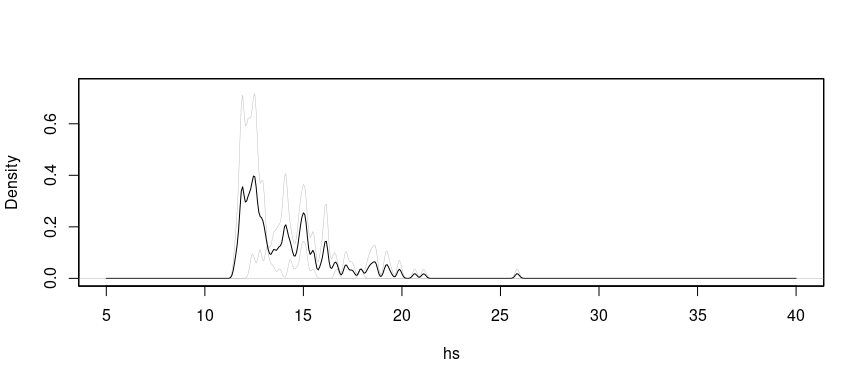
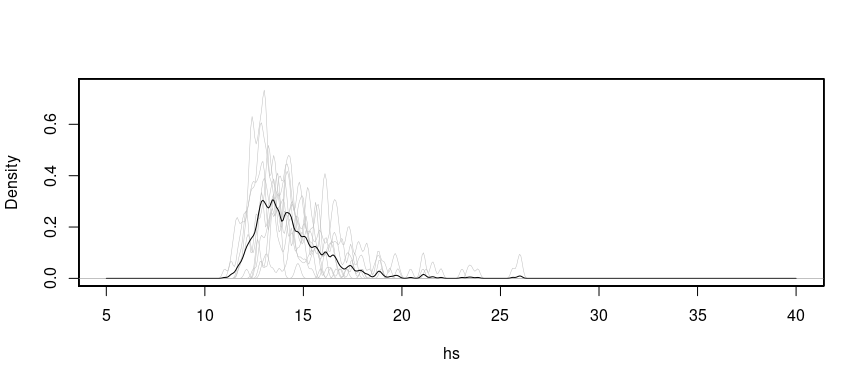
updated README

Changed region(s): [[0.25, 0.25, 0.625, 0.75], [0.0312, 0.4375, 0.0938, 0.5]]

diff --git a/README.md b/README.md
@@ -77,7 +77,7 @@ plot(density(ds$hs, bw=.1))
 
 ``` r
 # number of bootstrap/resampling steps
-nbstrp <- 2  # e.g. nbstrp = 10 for testing
+nbstrp <- 10  # e.g. nbstrp = 10 for testing
 
 system.time(res_bstrp <- run_bootstrap_storms_pots(df = df_pick$storms,
                                                    group_col = "storm_idx",
@@ -86,7 +86,7 @@ system.time(res_bstrp <- run_bootstrap_storms_pots(df = df_pick$storms,
 ```
 
     ##    user  system elapsed 
-    ##   0.744   0.000   0.744
+    ##   3.304   0.000   3.304
 
 ``` r
 bstrp_storms_lst <- res_bstrp$boot_samples
@@ -160,7 +160,7 @@ models_margs <- fit_margs_bstrp(bstrp_pots_lst,
 ```
 
     ## [1] "Considered variables:" "hs"                   
-    ## [1] "number of bootstraps is:" "2"                       
+    ## [1] "number of bootstraps is:" "10"                      
     ## [1] "bootstrap nr:" "1"            
     ## [1] "fit threshold model"
     ## [1] "fit threshold model for" "hs"                     
@@ -172,6 +172,78 @@ models_margs <- fit_margs_bstrp(bstrp_pots_lst,
     ## [1] "fit occ model"
     ## [1] "fit occurrence model for" "hs"                      
     ## [1] "bootstrap nr:" "2"            
+    ## [1] "fit threshold model"
+    ## [1] "fit threshold model for" "hs"                     
+    ## [1] "subset to pots above threshold"
+    ## [1] "subset dataset for" "hs"                
+    ## [1] "fit GPD model"
+    ## [1] "fit gpd model for" "hs"               
+    ## [1] "fit occ model"
+    ## [1] "fit occurrence model for" "hs"                      
+    ## [1] "bootstrap nr:" "3"            
+    ## [1] "fit threshold model"
+    ## [1] "fit threshold model for" "hs"                     
+    ## [1] "subset to pots above threshold"
+    ## [1] "subset dataset for" "hs"                
+    ## [1] "fit GPD model"
+    ## [1] "fit gpd model for" "hs"               
+    ## [1] "fit occ model"
+    ## [1] "fit occurrence model for" "hs"                      
+    ## [1] "bootstrap nr:" "4"            
+    ## [1] "fit threshold model"
+    ## [1] "fit threshold model for" "hs"                     
+    ## [1] "subset to pots above threshold"
+    ## [1] "subset dataset for" "hs"                
+    ## [1] "fit GPD model"
+    ## [1] "fit gpd model for" "hs"               
+    ## [1] "fit occ model"
+    ## [1] "fit occurrence model for" "hs"                      
+    ## [1] "bootstrap nr:" "5"            
+    ## [1] "fit threshold model"
+    ## [1] "fit threshold model for" "hs"                     
+    ## [1] "subset to pots above threshold"
+    ## [1] "subset dataset for" "hs"                
+    ## [1] "fit GPD model"
+    ## [1] "fit gpd model for" "hs"               
+    ## [1] "fit occ model"
+    ## [1] "fit occurrence model for" "hs"                      
+    ## [1] "bootstrap nr:" "6"            
+    ## [1] "fit threshold model"
+    ## [1] "fit threshold model for" "hs"                     
+    ## [1] "subset to pots above threshold"
+    ## [1] "subset dataset for" "hs"                
+    ## [1] "fit GPD model"
+    ## [1] "fit gpd model for" "hs"               
+    ## [1] "fit occ model"
+    ## [1] "fit occurrence model for" "hs"                      
+    ## [1] "bootstrap nr:" "7"            
+    ## [1] "fit threshold model"
+    ## [1] "fit threshold model for" "hs"                     
+    ## [1] "subset to pots above threshold"
+    ## [1] "subset dataset for" "hs"                
+    ## [1] "fit GPD model"
+    ## [1] "fit gpd model for" "hs"               
+    ## [1] "fit occ model"
+    ## [1] "fit occurrence model for" "hs"                      
+    ## [1] "bootstrap nr:" "8"            
+    ## [1] "fit threshold model"
+    ## [1] "fit threshold model for" "hs"                     
+    ## [1] "subset to pots above threshold"
+    ## [1] "subset dataset for" "hs"                
+    ## [1] "fit GPD model"
+    ## [1] "fit gpd model for" "hs"               
+    ## [1] "fit occ model"
+    ## [1] "fit occurrence model for" "hs"                      
+    ## [1] "bootstrap nr:" "9"            
+    ## [1] "fit threshold model"
+    ## [1] "fit threshold model for" "hs"                     
+    ## [1] "subset to pots above threshold"
+    ## [1] "subset dataset for" "hs"                
+    ## [1] "fit GPD model"
+    ## [1] "fit gpd model for" "hs"               
+    ## [1] "fit occ model"
+    ## [1] "fit occurrence model for" "hs"                      
+    ## [1] "bootstrap nr:" "10"           
     ## [1] "fit threshold model"
     ## [1] "fit threshold model for" "hs"                     
     ## [1] "subset to pots above threshold"
@@ -195,21 +267,101 @@ preds_margs_lst <- predict_margs(models_margs, nr_yrs_subdata, RP=RP,
     ## [1] "number of boostraps (predict_margs):"
     ## [2] "1"                                   
     ## [1] "produce storms"
-    ## [1] "nr_of_events:" "1104"         
-    ## [1] "sum(predcounts)" "2763.566318467" 
-    ## [1] "lambda_max"         "0.0296618277273189"
-    ## [1] "proposal_N:" "3330"       
-    ## [1] "nr_of_sims:" "2321"       
+    ## [1] "nr_of_events:" "829"          
+    ## [1] "sum(predcounts)"  "2760.09444619841"
+    ## [1] "lambda_max"         "0.0210365309700515"
+    ## [1] "proposal_N:" "1727"       
+    ## [1] "nr_of_sims:" "1711"       
     ## [1] "predict threshold"
     ## [1] "predict exceedences"
     ## [1] "number of boostraps (predict_margs):"
     ## [2] "2"                                   
     ## [1] "produce storms"
-    ## [1] "nr_of_events:" "874"          
-    ## [1] "sum(predcounts)"  "2762.70779411207"
-    ## [1] "lambda_max"         "0.0256939660804343"
-    ## [1] "proposal_N:" "2240"       
-    ## [1] "nr_of_sims:" "1811"       
+    ## [1] "nr_of_events:" "779"          
+    ## [1] "sum(predcounts)" "2761.7314134749"
+    ## [1] "lambda_max"         "0.0239521202481212"
+    ## [1] "proposal_N:" "1966"       
+    ## [1] "nr_of_sims:" "1733"       
+    ## [1] "predict threshold"
+    ## [1] "predict exceedences"
+    ## [1] "number of boostraps (predict_margs):"
+    ## [2] "3"                                   
+    ## [1] "produce storms"
+    ## [1] "nr_of_events:" "802"          
+    ## [1] "sum(predcounts)"  "2754.93637514832"
+    ## [1] "lambda_max"         "0.0267521379550961"
+    ## [1] "proposal_N:" "2134"       
+    ## [1] "nr_of_sims:" "1671"       
+    ## [1] "predict threshold"
+    ## [1] "predict exceedences"
+    ## [1] "number of boostraps (predict_margs):"
+    ## [2] "4"                                   
+    ## [1] "produce storms"
+    ## [1] "nr_of_events:" "1296"         
+    ## [1] "sum(predcounts)"  "2749.90968628454"
+    ## [1] "lambda_max"         "0.0270506298643237"
+    ## [1] "proposal_N:" "3496"       
+    ## [1] "nr_of_sims:" "2729"       
+    ## [1] "predict threshold"
+    ## [1] "predict exceedences"
+    ## [1] "number of boostraps (predict_margs):"
+    ## [2] "5"                                   
+    ## [1] "produce storms"
+    ## [1] "nr_of_events:" "938"          
+    ## [1] "sum(predcounts)" "2781.0505928622"
+    ## [1] "lambda_max"         "0.0275650027380769"
+    ## [1] "proposal_N:" "2580"       
+    ## [1] "nr_of_sims:" "1946"       
+    ## [1] "predict threshold"
+    ## [1] "predict exceedences"
+    ## [1] "number of boostraps (predict_margs):"
+    ## [2] "6"                                   
+    ## [1] "produce storms"
+    ## [1] "nr_of_events:" "1218"         
+    ## [1] "sum(predcounts)"  "2772.16919437751"
+    ## [1] "lambda_max"         "0.0284180691189385"
+    ## [1] "proposal_N:" "3516"       
+    ## [1] "nr_of_sims:" "2581"       
+    ## [1] "predict threshold"
+    ## [1] "predict exceedences"
+    ## [1] "number of boostraps (predict_margs):"
+    ## [2] "7"                                   
+    ## [1] "produce storms"
+    ## [1] "nr_of_events:" "928"          
+    ## [1] "sum(predcounts)"  "2780.36317918889"
+    ## [1] "lambda_max"         "0.0269156280589783"
+    ## [1] "proposal_N:" "2527"       
+    ## [1] "nr_of_sims:" "1976"       
+    ## [1] "predict threshold"
+    ## [1] "predict exceedences"
+    ## [1] "number of boostraps (predict_margs):"
+    ## [2] "8"                                   
+    ## [1] "produce storms"
+    ## [1] "nr_of_events:" "1182"         
+    ## [1] "sum(predcounts)"  "2752.49811333104"
+    ## [1] "lambda_max"         "0.0273339849162576"
+    ## [1] "proposal_N:" "3211"       
+    ## [1] "nr_of_sims:" "2436"       
+    ## [1] "predict threshold"
+    ## [1] "predict exceedences"
+    ## [1] "number of boostraps (predict_margs):"
+    ## [2] "9"                                   
+    ## [1] "produce storms"
+    ## [1] "nr_of_events:" "1222"         
+    ## [1] "sum(predcounts)"  "2765.97537241364"
+    ## [1] "lambda_max"         "0.0301060442172565"
+    ## [1] "proposal_N:" "3681"       
+    ## [1] "nr_of_sims:" "2602"       
+    ## [1] "predict threshold"
+    ## [1] "predict exceedences"
+    ## [1] "number of boostraps (predict_margs):"
+    ## [2] "10"                                  
+    ## [1] "produce storms"
+    ## [1] "nr_of_events:" "1227"         
+    ## [1] "sum(predcounts)"  "2737.80272953685"
+    ## [1] "lambda_max"         "0.0409938007890254"
+    ## [1] "proposal_N:" "5108"       
+    ## [1] "nr_of_sims:" "2566"       
     ## [1] "predict threshold"
     ## [1] "predict exceedences"
 
@@ -223,7 +375,7 @@ dhs <- diagnose_margs_preds_density(preds_margs_lst, 'hs', bw=.1, xlim=c(5,40))
 
     ## [1] "summary maxes:"
     ##    Min. 1st Qu.  Median    Mean 3rd Qu.    Max. 
-    ##   11.53   12.42   13.55   14.15   15.12   25.85
+    ##   11.01   13.06   14.00   14.42   15.22   54.53
 
 ``` r
 df_ekofisk <- readRDS(file = "/home/patrikb/R-projects/envex/data/df_ekofisk.rds")
